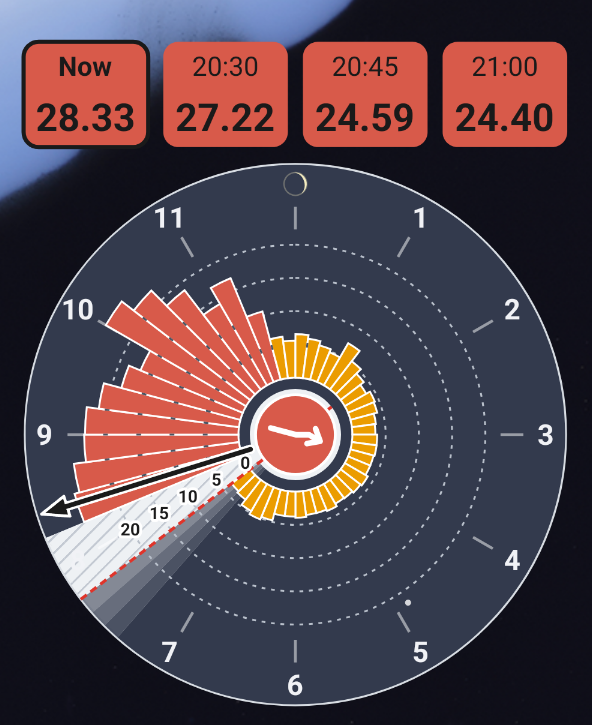
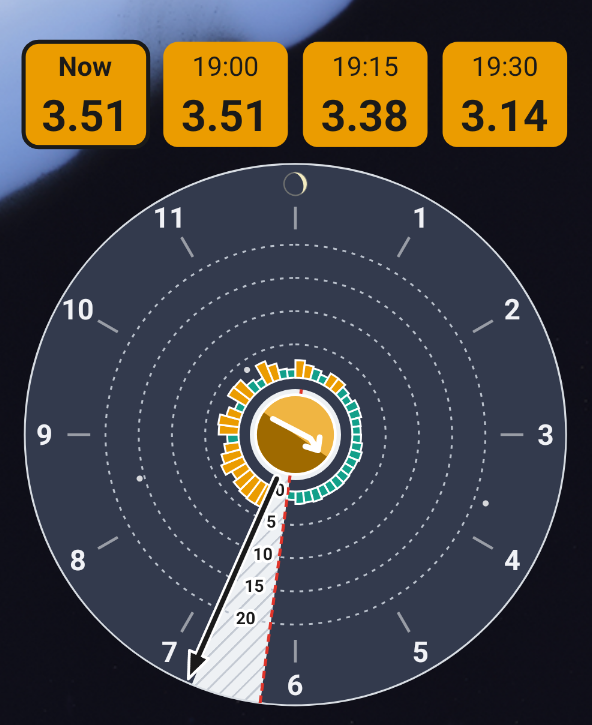
README + changelog: 0.12.0 artificial horizon, refreshed tall screenshot and zigzag illustration

Changed region(s): [[0.0608, 0.3641, 0.6385, 0.971], [0.0304, 0.0607, 0.973, 0.2124]]

diff --git a/README.md b/README.md
@@ -14,7 +14,7 @@ lähdekoodi on erillisessä yksityisessä repossa.
 |---|---|
 | <img src="screenshots/tall.png" width="300" alt="Korkea widget: nykyinen ja kolme seuraavaa varttia kellon yläpuolella, siksak-nuoli kellon keskellä"> | <img src="screenshots/square.png" width="300" alt="Matala widget: nykyinen hinta kellon keskellä"> |
 
-*Kuvakaappaukset versiosta 0.11.0, 11.11.2026 klo 20.25.*
+*Kuvakaappaukset: korkea versiosta 0.12.0 (12.11.2026 klo 18.47), matala versiosta 0.11.0.*
 
 ## Lataus
 
@@ -59,12 +59,19 @@ lopussa.
 - Mitä suurempi muutos **suhteessa hintaan**, sitä jyrkempi osa: alle 10 %,
   10–25 %, 25–50 % tai yli 50 % (15°, 30°, 45°, 60°). Siksi 3 → 6 snt ja
   30 → 60 snt piirtyvät yhtä jyrkkinä – rahamäärän näet hintariviltä.
+- **Keinohorisontti:** koko siksak on kallistettu sen mukaan, mihin hinta on
+  tunnin lopussa menossa nykyiseen verrattuna, ja pallon tausta on jaettu
+  samaan kulmaan vaaleaan "taivaaseen" ja tummaan "maahan" – kuin lentokoneen
+  keinohorisontti. Vaakasuora horisontti = tunnin lopussa suunnilleen sama
+  hinta; kallistus 15°, 25°, 35° tai 45° sen mukaan, onko muutos alle 10 %,
+  10–25 %, 25–50 % vai enemmän.
 - Pallon väri on seuraavan tunnin keskihinnan väri.
 
 <img src="screenshots/zigzag.png" width="560" alt="Neljä esimerkkiä 11.–12.11.2026: hinnat pylväinä ja niistä piirtyvä siksak-nuoli">
 
 Ylin esimerkki: klo 21.30 hinta ensin laskee (16,67), sitten hyppää (26,23)
-ja laskee taas – nuoli kulkee *alas, ylös, alas, alas*.
+ja laskee taas – nuoli kulkee *alas, ylös, alas, alas*. Tunnin lopussa hinta
+(18,82) on melkein sama kuin nyt (18,54), joten horisontti on vaakasuora.
 
 ### Kellon lukeminen
 
@@ -153,8 +160,11 @@ in a separate private repository.
   previous quarter, steeper for a bigger change relative to the price (under
   10 %, 10–25 %, 25–50 %, more: 15/30/45/60°); level = about the same (under
   0.5 c). The arrowhead is the end of the hour; the disc has the next hour's
-  average price colour. See the picture above: at 21.30 on 11.11. it runs
-  *down, up, down, down*.
+  average price colour. The whole zigzag, and the disc's lighter "sky" and
+  darker "ground" behind it, tilt with where the price ends up at the end of
+  the hour, like an aircraft's artificial horizon (level, or 15/25/35/45° for
+  under 10 / 25 / 50 / over 50 %). See the picture above: at 21.30 on 11.11.
+  it runs *down, up, down, down* on a level horizon.
 - **Reading the clock:** each bar is a quarter-hour, longer = pricier; dashed
   rings at 0/5/10/15/20 c, shown as small dark marks in the gaps between tall
   bars. Bars of 30 c or more have their price printed on them in whole cents

diff --git a/CHANGELOG.md b/CHANGELOG.md
@@ -3,6 +3,17 @@
 Vain uusimmat versiot julkaistaan tässä repossa; vanhemmat on listattu
 historiaksi.
 
+## 0.12.0 – 2026-11-12
+
+- **Keinohorisontti:** siksak-nuoli on kallistettu sen mukaan, mihin hinta on
+  tunnin lopussa menossa, ja pallon tausta on jaettu samaan kulmaan vaaleaan
+  ja tummaan puoliskoon kuin lentokoneen keinohorisontti. Aiemmin nuolen pää
+  saattoi jäädä alemmas kuin alku, vaikka hinta tunnin lopussa oli korkeampi.
+
+*Artificial horizon: the zigzag is tilted with where the price ends up at the end
+of the hour, and the disc behind is split at the same angle into a lighter and a
+darker half, like an aircraft's attitude indicator.*
+
 ## 0.11.0 – 2026-11-11
 
 - **Siksak-nuoli:** kellon keskellä on nyt seuraavan tunnin hintapolku –
